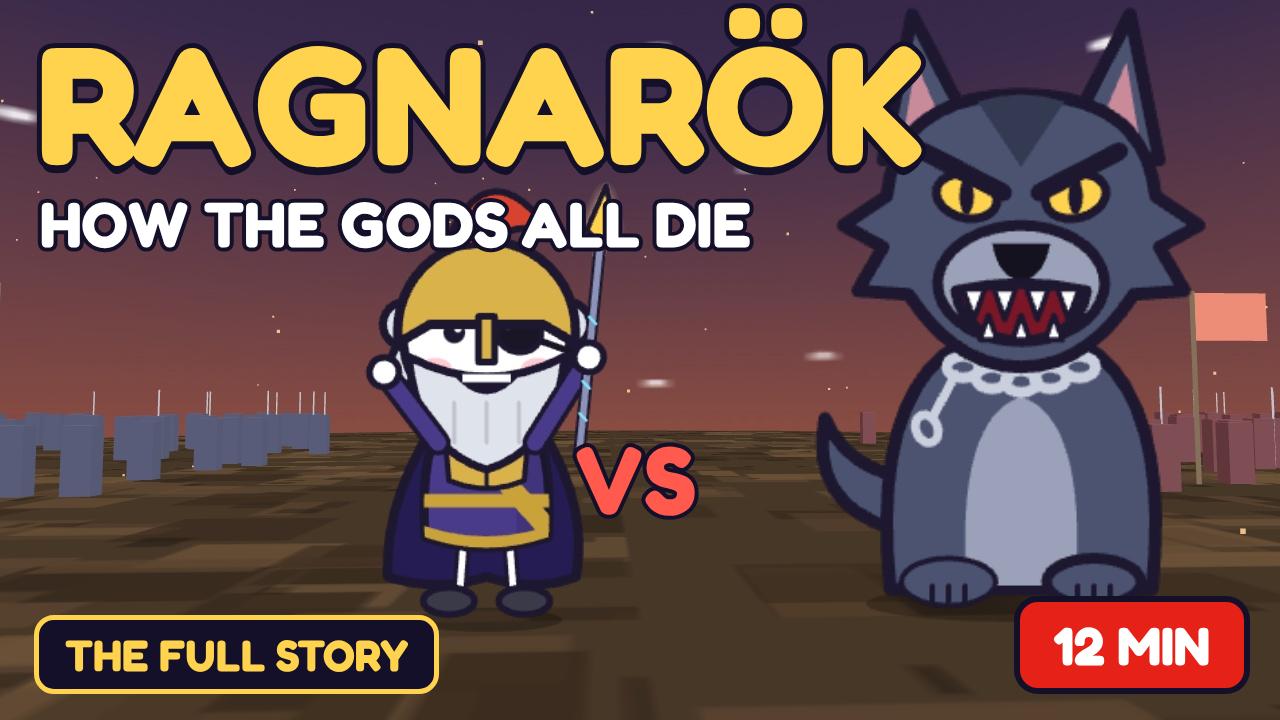
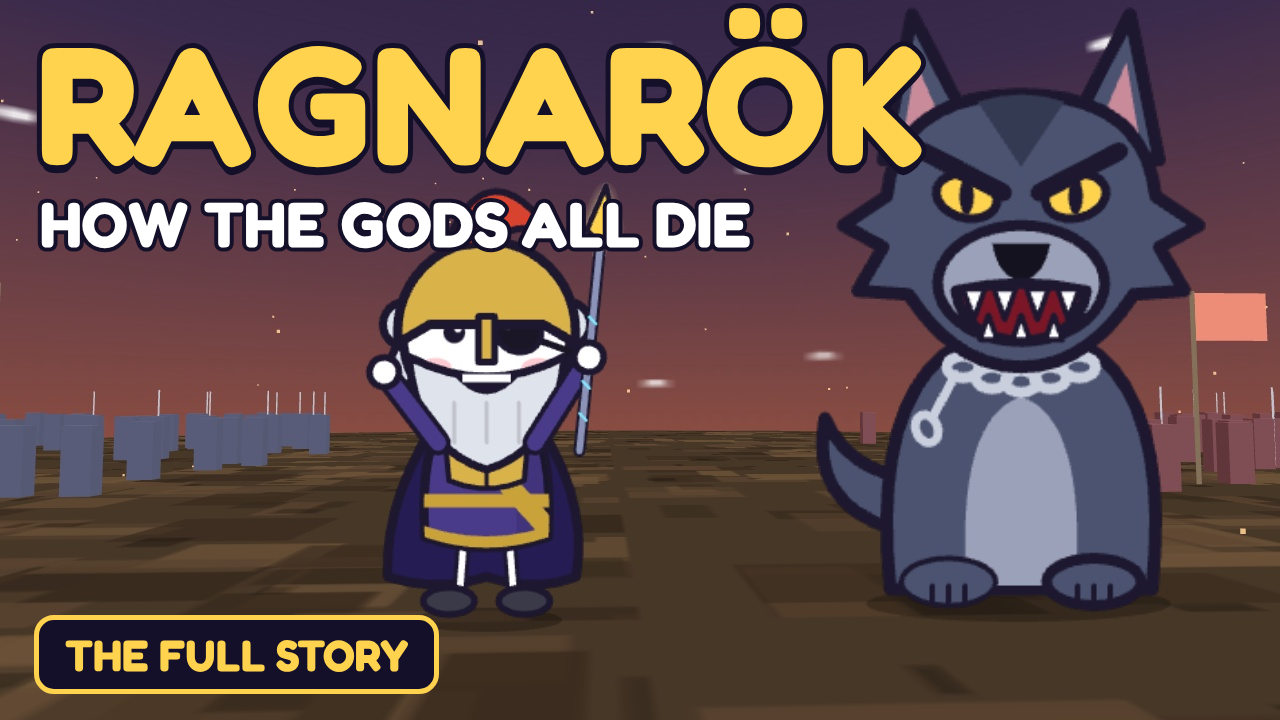
Thumbnail: remove VS sign and 12 MIN badge
Claude-Session: https://claude.ai/code/session_011CKby1rsTmJiZe6KBjd3h8

Changed region(s): [[0.7812, 0.825, 1.0, 0.9778], [0.4375, 0.6111, 0.5625, 0.7333]]

diff --git a/ragnarok/thumb.html b/ragnarok/thumb.html
@@ -12,7 +12,5 @@ html,body{margin:0;padding:0;background:#14102a}
 </style></head><body><div class="slide">
 <div class="t1">RAGNARÖK</div>
 <div class="t2">HOW THE GODS ALL DIE</div>
-<div class="vs">VS</div>
 <div class="tag">THE FULL STORY</div>
-<div class="badge">12 MIN</div>
 </div></body></html>
